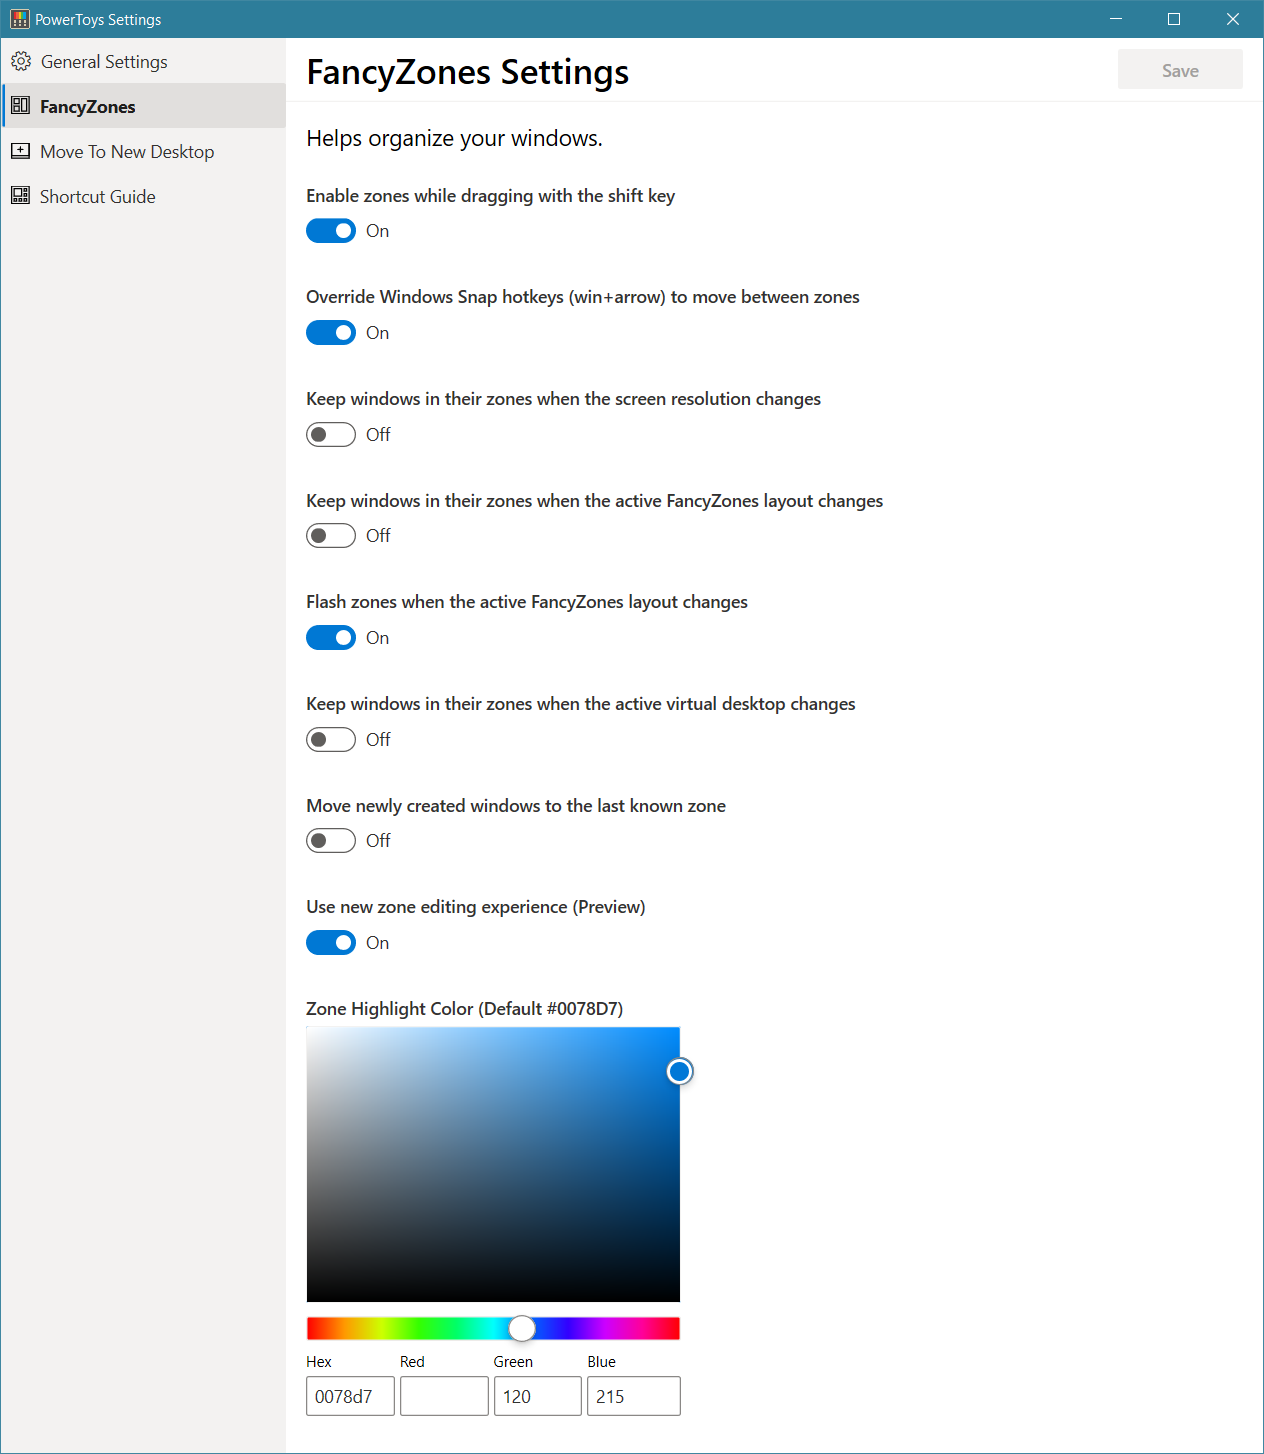
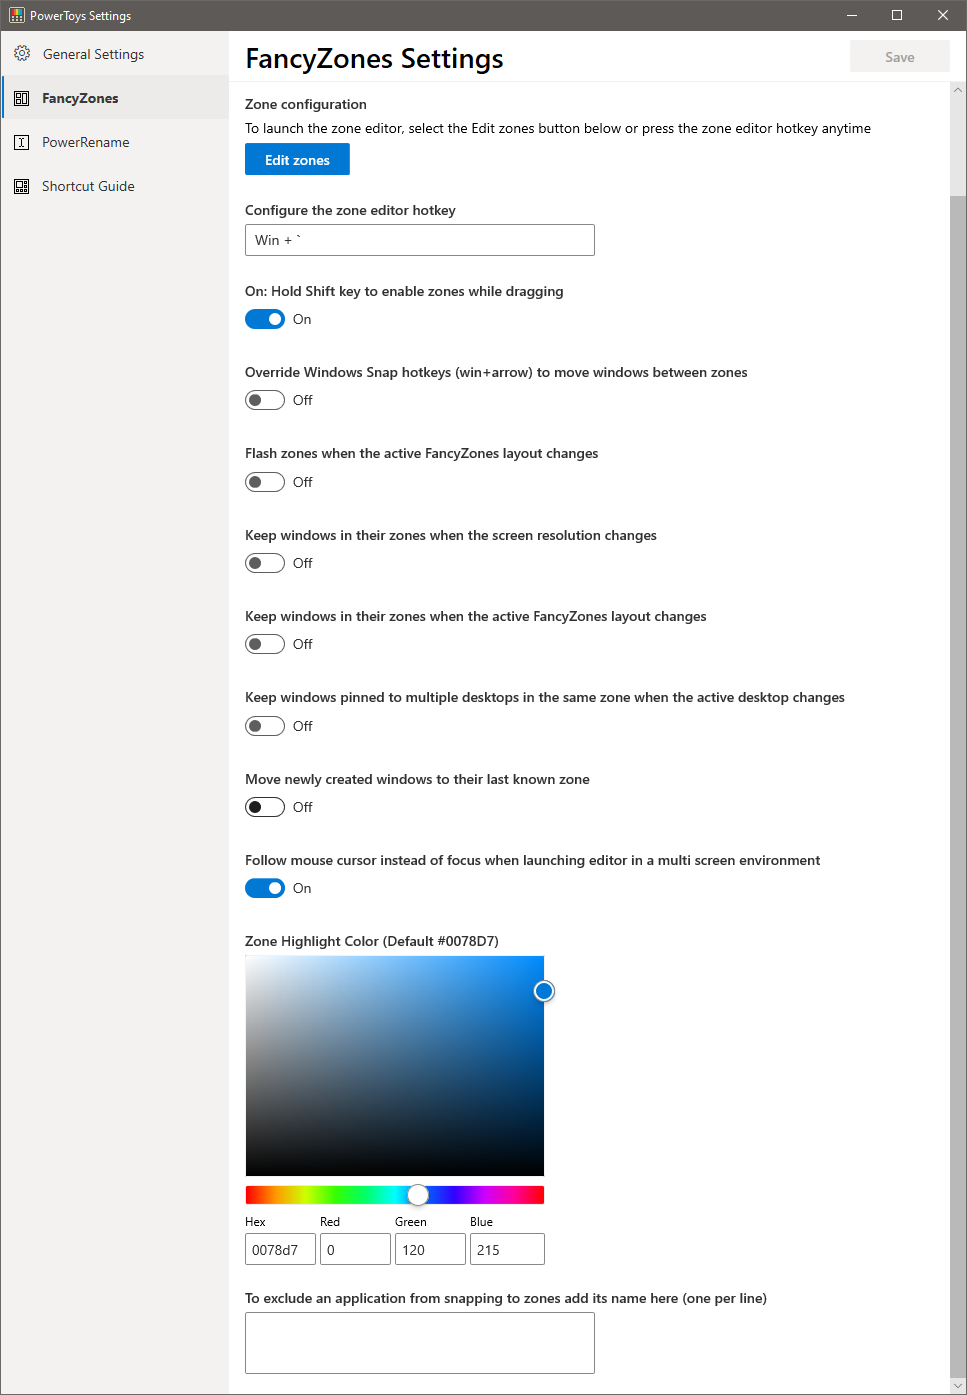
Update FancyZone README for v0.14.0

diff --git a/src/modules/fancyzones/README.md b/src/modules/fancyzones/README.md
@@ -22,20 +22,22 @@ The backlog for the utility can be found [here](https://github.com/Microsoft/Pow
 | ----------- | ----------- |
 | Win + `      | Launches editor (this shortcut is editable in the settings dialog)       |
 | Win+Ctrl+\<Number>   | Cycles through saved layouts with the corresponding number of zones        |
-| Win+Left/Right Arrow | Move focused window between zones (only if Override snap hotkeys setting is enabled)  |
+| Win+Left/Right Arrow | Move focused window between zones (only if Override snap hotkeys setting is enabled, in that case only the `Win+Left Arrow` and `Win+Right Arrow` are overriden, while the `Win+Up Arrow` and `Win+Down Arrow` keep working as usual)  |
 
 ## Settings
 | Setting | Description |
 | --------- | ------------- |
+| Configure the zone editor hotkey | To change the default hotkey, click on the textbox (it's not necessary to select or delete the text) and then press on the keyboard the desired key combination |
 | Enable zones while dragging with the shift key | Toggles between auto-snap mode with the shift key disabling snapping during a drag and manual snap mode where pressing the shift key during a drag enables snapping |
-| Override Windows Snap hotkeys (win+arrow) to move between zones | Enables or disables Windows Aero Snapping when Fancy Zones is running |
+| Override Windows Snap hotkeys (win+arrow) to move between zones | When this option is on and Fancy Zones is running, it overrides two Windows Snap keys: `Win+Left Arrow` and `Win+Right Arrow` |
+| Flash zones when the active FancyZones layout changes | Briefly flash the zone layout when the layout changes or a new virtual desktop is activated |
 | Keep windows in their zones when the screen resolution changes | After a screen resolution change, if this setting is enabled, Fancy Zones will resize and reposition windows into the zones they were previously in |
 | Keep windows in their zones when the active FancyZones layout changes | When this option is on, Fancy Zones will resize and position windows into the new zone layout by maintaining the previous zone number location of each window |
-| Flash zones when the active FancyZones layout changes | Briefly flash the zone layout when the layout changes or a new virtual desktop is activated |
 | Keep windows in their zones when the active virtual desktop changes | If an application is pinned to all virtual desktops, this setting will keep that window in the same zone on all desktops |
-| Zone Highlight Color (Default #0078D7) | the color that a zone becomes when it is the active drop target during a window drag 
-| Use new zone editing experience (Preview) | When enabled, the new editor is enabled.  The original editor has better support for multi-mon layouts |  
 | Move newly created windows to the last known zone | Automatically move a newly opened window into the last zone location that application was in |
+| Follow mouse cursor instead of focus when launching editor in a multi screen environment | When this option is on, the editor hotkey will launch the editor on the monitor where the mouse cursor is, when this option is off, the editor hotkey will launch the editor on monitor where the current active window is  |
+| Zone Highlight Color (Default #0078D7) | the color that a zone becomes when it is the active drop target during a window drag |
+| Exclude applications from snapping to zones | Add the applications name, or part of the name, one per line (e.g., adding `Notepa` will match both `Notepad.exe` and `Notepad++.exe`, to match only `Notepad.exe` add the `.exe` extension) | 
 
 ![Fancy Zones Settings UI](FancyZonesSettings.png)
 
